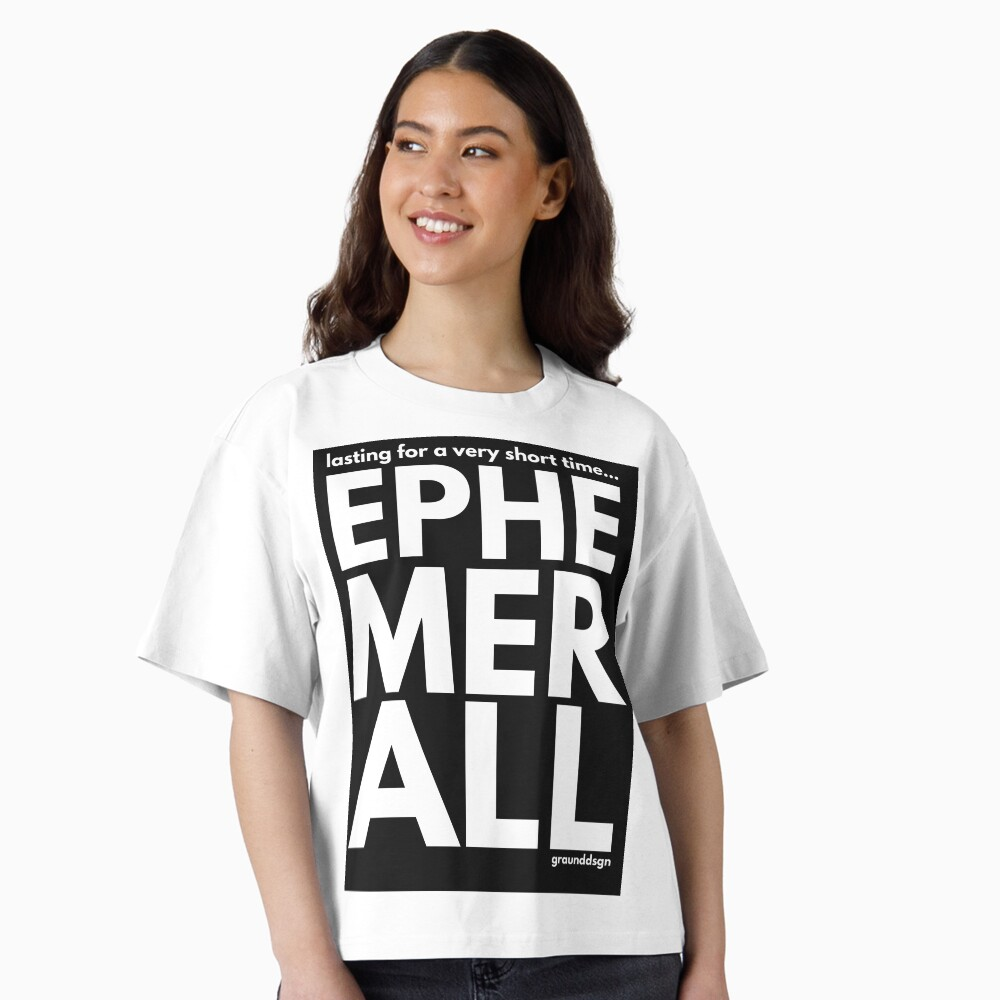
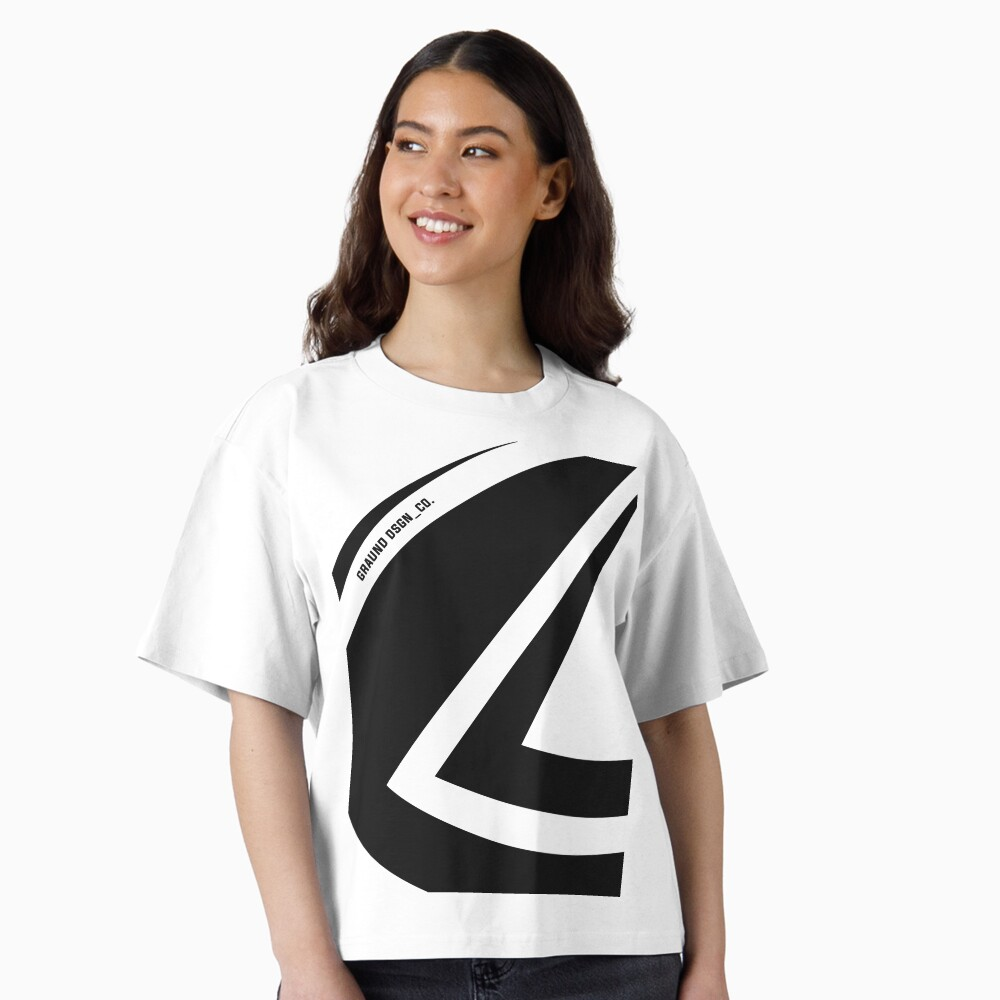
bv

Changed region(s): [[0.31, 0.434, 0.651, 0.899]]

diff --git a/index.html b/index.html
@@ -806,7 +806,7 @@
                 { archivo: "cloth3.jpg", nombre: "T-shirt Ride Now", link: "https://www.redbubble.com/i/t-shirt/Ride-Now-by-GraundDSGN/182672697/nz95?asc=u" },
                 { archivo: "cloth4.jpg", nombre: "Dress Ride Now", link: "https://www.redbubble.com/i/dress/Ride-Now-by-GraundDSGN/182672697/3yb7?asc=u" },
                 { archivo: "cloth5.jpg", nombre: "T-shirt Be Strong to Move the World", link: "https://www.redbubble.com/i/t-shirt/Be-Strong-to-Move-the-World-by-GraundDSGN/182642419/2cn5?asc=u" },
-                { archivo: "cloth6.jpg", nombre: "Boxy T-Shirt ephemerALL", link: "https://www.redbubble.com/i/t-shirt/ephemerALL-by-graund-by-GraundDSGN/182987544/xtkm?asc=u" }
+                { archivo: "cloth6.jpg", nombre: "Boxy T-Shirt: Graund DSGN Signature", link: "https://www.redbubble.com/i/t-shirt/Graund-DSGN-Signature-by-GraundDSGN/183017606/xtkm?asc=u" }
             ],
             "MEN": [
                 { archivo: "men1.jpg", nombre: "Oversized T-shirt: No More stickers please", link: "https://www.redbubble.com/i/t-shirt/No-More-stickers-please-by-GraundDSGN/182651606/rh5j" },
